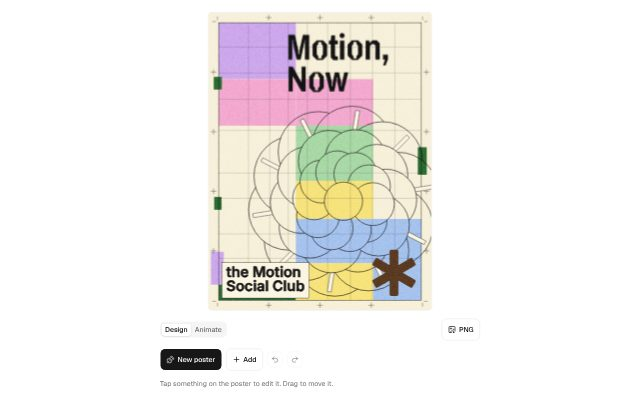
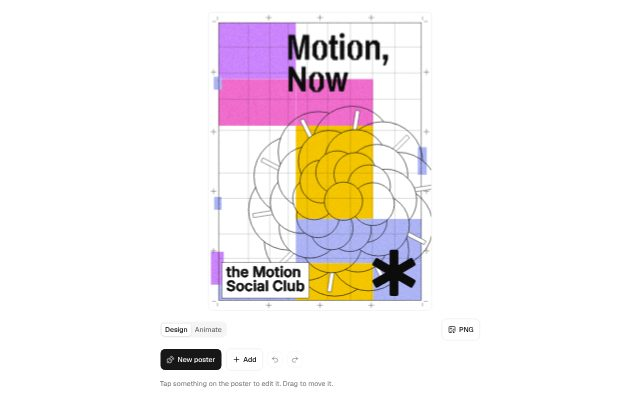
KV Posters: white canvas palettes only, Mono setting
Claude-Session: https://claude.ai/code/session_01TARX4bFFU8dum9PbtFbYFe

Changed region(s): [[0.3125, 0.03, 0.6875, 0.78]]

diff --git a/playground/app/prototypes/kv-posters/palettes.ts b/playground/app/prototypes/kv-posters/palettes.ts
@@ -6,18 +6,7 @@ export const TMSC = {
   Acid: "#E4FC24", Magenta: "#F06CCC", Blanco: "#FFFFFF", Naranja: "#EE4B2B", Lila: "#CC84FC", "Verde osc.": "#0C540C",
 } as const;
 type Name = keyof typeof TMSC;
-
-/** Background / figure pairs from the tMSC sheet (v1 then v2). */
-export const PAIRS: [Name, Name][] = [
-  ["Periwinkle", "Marrón"], ["Periwinkle", "Verde osc."], ["Amarillo", "Marrón"], ["Naranja", "Marrón"],
-  ["Verde", "Acid"], ["Verde", "Magenta"], ["Verde osc.", "Amarillo"], ["Marrón", "Amarillo"],
-  ["Marrón", "Periwinkle"], ["Lila", "Naranja"], ["Magenta", "Verde"], ["Acid", "Verde"],
-  ["Naranja", "Acid"], ["Ink", "Lila"], ["Ink", "Amarillo"],
-  ["Blanco", "Marrón"], ["Blanco", "Verde osc."], ["Blanco", "Naranja"], ["Periwinkle", "Ink"],
-  ["Periwinkle", "Naranja"], ["Amarillo", "Ink"], ["Amarillo", "Naranja"], ["Acid", "Marrón"],
-  ["Acid", "Verde osc."], ["Lila", "Verde osc."], ["Lila", "Ink"], ["Magenta", "Marrón"],
-  ["Magenta", "Ink"], ["Verde osc.", "Periwinkle"], ["Verde osc.", "Acid"], ["Marrón", "Magenta"],
-];
+export type MonoName = Exclude<Name, "Blanco">;
 
 /** WCAG relative luminance and contrast ratio. */
 export function luminance(hex: string): number {
@@ -32,12 +21,11 @@ export function contrast(a: string, b: string): number {
   return (hi + 0.05) / (lo + 0.05);
 }
 
-/** Light backgrounds only, and type that reads on them (WCAG AA, 4.5:1). */
-export const LIGHT_BG = 0.3;
+/** Type that reads on the paper (WCAG AA, 4.5:1). */
 export const TYPE_CONTRAST = 4.5;
 /** Minimum separation between a coloured block and the background, and between a block and type laid over it. */
 export const MOTIF_CONTRAST = 1.3;
-export const BLOCK_TYPE_CONTRAST = 3;
+export const BLOCK_TYPE_CONTRAST = 4.5;
 
 /** Motif slot → its natural tMSC colour; a slot whose colour is the figure, too close to the background, or too dark under the type takes a spare. */
 const SLOTS = { blue: "Periwinkle", pink: "Magenta", lilac: "Lila", mint: "Verde", orange: "Naranja", yellow: "Amarillo" } as const;
@@ -60,6 +48,45 @@ export function pairPalette(bg: Name, fg: Name): Palette {
   };
 }
 
-const usable = ([b, f]: [Name, Name]) => luminance(TMSC[b]) >= LIGHT_BG && contrast(TMSC[b], TMSC[f]) >= TYPE_CONTRAST;
+const blockColours = (p: Palette) => new Set([p.blue, p.pink, p.lilac, p.mint, p.orange, p.yellow]).size;
 
-export const PAIR_PALETTES: Record<string, Palette> = Object.fromEntries(PAIRS.filter(usable).map(([b, f]) => [`${b} / ${f}`, pairPalette(b, f)]));
+/** Figure colours that read on white (WCAG AA) and leave at least two block colours. */
+export const WHITE_FIGURES = (Object.keys(TMSC) as Name[]).filter(
+  (n) => n !== "Blanco" && contrast(TMSC[n], TMSC.Blanco) >= TYPE_CONTRAST && blockColours(pairPalette("Blanco", n)) >= 2,
+);
+
+/** White canvas, colourful blocks, one figure colour for type and lines. */
+export const PAIR_PALETTES: Record<string, Palette> = Object.fromEntries(WHITE_FIGURES.map((f) => [`Blanco / ${f}`, pairPalette("Blanco", f)]));
+
+// ---------------------------------------------------------------- mono
+
+/** How far a light Mono colour is deepened for type. */
+const MONO_INK_CONTRAST = 9;
+
+/** Colours the Mono setting offers. */
+export const MONO_COLORS = (Object.keys(TMSC) as Name[]).filter((n) => n !== "Blanco");
+
+const hex = (rgb: number[]) => `#${rgb.map((c) => Math.round(c).toString(16).padStart(2, "0")).join("").toUpperCase()}`;
+const rgbOf = (h: string) => [1, 3, 5].map((i) => parseInt(h.slice(i, i + 2), 16));
+/** Mix toward white (t > 0) or black (t < 0). */
+export function shade(h: string, t: number): string {
+  const to = t > 0 ? 255 : 0;
+  return hex(rgbOf(h).map((c) => c + (to - c) * Math.abs(t)));
+}
+
+/** One colour on white: the colour and its tints for blocks, type in a deep shade of it. */
+export function monoPalette(name: Name): Palette {
+  const c = TMSC[name];
+  const paper = TMSC.Blanco;
+  // type is the colour deepened well past the minimum, so its tints have room to read under it
+  let ink: string = c;
+  for (let t = 0.05; contrast(ink, paper) < MONO_INK_CONTRAST && t <= 1; t += 0.05) ink = shade(c, -t);
+  const ok = (x: string) => contrast(x, paper) >= MOTIF_CONTRAST && contrast(x, ink) >= BLOCK_TYPE_CONTRAST;
+  const valid = [...Array.from({ length: 9 }, (_, i) => shade(c, -0.4 + i * 0.05)), ...Array.from({ length: 17 }, (_, i) => shade(c, 0.05 + i * 0.05))]
+    .filter(ok)
+    .sort((x, y) => luminance(x) - luminance(y));
+  // three tones spread across what reads: deepest, middle, lightest
+  const tones = valid.length ? [...new Set([valid[0], valid[Math.floor(valid.length / 2)], valid[valid.length - 1]])] : [shade(c, 0.8)];
+  const at = (i: number) => tones[i % tones.length];
+  return { paper, ink, blue: at(0), pink: at(1), lilac: at(2), mint: at(3), orange: at(4), yellow: at(5), green: at(6), brown: ink, cream: paper };
+}

diff --git a/playground/app/prototypes/kv-posters/palettes.test.ts b/playground/app/prototypes/kv-posters/palettes.test.ts
@@ -1,22 +1,31 @@
 import { describe, expect, it } from "vitest";
-import { BLOCK_TYPE_CONTRAST, contrast, luminance, MOTIF_CONTRAST, PAIR_PALETTES } from "./palettes";
+import { BLOCK_TYPE_CONTRAST, contrast, MONO_COLORS, monoPalette, MOTIF_CONTRAST, PAIR_PALETTES } from "./palettes";
+import type { Palette } from "./types";
 
-const pals = Object.values(PAIR_PALETTES);
+const BLOCKS = ["blue", "pink", "lilac", "mint", "orange", "yellow", "green"] as const;
 
-describe("pair palettes", () => {
-  it("keeps only light backgrounds with readable type", () => {
-    expect(pals.length).toBeGreaterThan(8);
-    for (const p of pals) {
-      expect(luminance(p.paper)).toBeGreaterThanOrEqual(0.3);
-      expect(contrast(p.paper, p.ink)).toBeGreaterThanOrEqual(4.5);
-    }
+function readable(p: Palette) {
+  expect(p.paper).toBe("#FFFFFF");
+  expect(contrast(p.paper, p.ink)).toBeGreaterThanOrEqual(4.5);
+  for (const k of BLOCKS) {
+    expect(contrast(p[k], p.ink)).toBeGreaterThanOrEqual(BLOCK_TYPE_CONTRAST);
+    expect(contrast(p[k], p.paper)).toBeGreaterThanOrEqual(MOTIF_CONTRAST);
+  }
+}
+
+describe("white canvas palettes", () => {
+  it("are white, with readable type and blocks", () => {
+    expect(Object.keys(PAIR_PALETTES).length).toBeGreaterThanOrEqual(2);
+    Object.values(PAIR_PALETTES).forEach(readable);
   });
-  it("keeps every coloured block apart from the background and readable under the type", () => {
-    for (const p of pals) {
-      for (const k of ["blue", "pink", "lilac", "mint", "orange", "yellow", "green"] as const) {
-        expect(contrast(p[k], p.ink)).toBeGreaterThanOrEqual(BLOCK_TYPE_CONTRAST);
-        expect(contrast(p[k], p.paper)).toBeGreaterThanOrEqual(MOTIF_CONTRAST);
-      }
-    }
-  });
+});
+
+describe("mono", () => {
+  it("keeps every colour readable on white", () => MONO_COLORS.forEach((n) => readable(monoPalette(n))));
+  it("uses the colour itself for type when it is already deep", () => expect(monoPalette("Ink").ink).toBe("#0C0C0C"));
+  it("gives every colour at least two block tones", () =>
+    MONO_COLORS.forEach((n) => {
+      const p = monoPalette(n);
+      expect(new Set([p.blue, p.pink, p.lilac, p.mint]).size).toBeGreaterThanOrEqual(2);
+    }));
 });

diff --git a/playground/app/prototypes/kv-posters/data.ts b/playground/app/prototypes/kv-posters/data.ts
@@ -1,5 +1,5 @@
 import { defineControls } from "@/components/controls";
-import { PAIR_PALETTES } from "./palettes";
+import { MONO_COLORS, PAIR_PALETTES } from "./palettes";
 import type { Element, FormatId, Kind, Palette } from "./types";
 
 export const SLUG = "kv-posters";
@@ -11,18 +11,8 @@ export const FORMATS: Record<FormatId, { label: string; width: number; height: n
   "1x1": { label: "1:1", width: 1080, height: 1080 },
 };
 
-/** Sampled from the reference posters, then the tMSC background / figure pairs. */
-export const PALETTES: Record<string, Palette> = {
-  Pastel: {
-    paper: "#F7F0DA", ink: "#141313", blue: "#A6C3EE", pink: "#F3A9CF", lilac: "#CDA8EC", mint: "#A9D9A6",
-    green: "#2D6B33", orange: "#F2883B", yellow: "#F7E37C", brown: "#5B3A22", cream: "#FBF5E3",
-  },
-  "KV yellow": {
-    paper: "#F5E85A", ink: "#141313", blue: "#BFA1EF", pink: "#FB81BC", lilac: "#BFA1EF", mint: "#FB81BC",
-    green: "#064517", orange: "#FB81BC", yellow: "#FEFEFD", brown: "#3D2A14", cream: "#FEFEFD",
-  },
-  ...PAIR_PALETTES,
-};
+/** White canvas, tMSC colours; one figure colour per palette. */
+export const PALETTES: Record<string, Palette> = PAIR_PALETTES;
 
 export const TEMPLATES = ["auto", "free", "stack", "cascade", "overlap", "vertical", "line"] as const;
 
@@ -30,7 +20,8 @@ export const controls = defineControls({
   template: { type: "select", label: "Layout", options: TEMPLATES, default: "auto" },
   seed: { type: "number", label: "Seed", min: 1, max: 9999, step: 1, default: 12 },
   format: { type: "select", label: "Format", options: ["3x4", "4x5", "9x16", "1x1"], default: "3x4", randomize: false },
-  palette: { type: "select", label: "Palette", options: Object.keys(PALETTES), default: "Pastel" },
+  palette: { type: "select", label: "Palette", options: Object.keys(PALETTES), default: "Blanco / Ink" },
+  mono: { type: "select", label: "Mono", options: ["off", ...MONO_COLORS], default: "off" },
   color: { type: "select", label: "Colour", options: ["squares", "fills"], default: "squares" },
   density: { type: "number", label: "Blocks", min: 0, max: 1, step: 0.05, default: 0.55 },
   paper: { type: "boolean", label: "Paper texture", default: true },

diff --git a/playground/app/prototypes/kv-posters/poster-editor.tsx b/playground/app/prototypes/kv-posters/poster-editor.tsx
@@ -9,6 +9,7 @@ import { animate, clipsFor } from "./animate";
 import { AnimatePanel } from "./animate-panel";
 import { moved } from "./bounds";
 import { controls, PALETTES } from "./data";
+import { monoPalette, type MonoName } from "./palettes";
 import { DesignPanel } from "./design-panel";
 import { exportMP4 } from "./export-mp4";
 import { PosterCanvas } from "./poster-canvas";
@@ -24,7 +25,10 @@ export function PosterEditor({ c }: { c: Controls<typeof controls> }) {
   const v = c.values;
   const opts = { template: v.template, seed: v.seed, format: v.format as FormatId, density: v.density, paint: v.color as Paint };
   const poster = usePoster(opts);
-  const palette = PALETTES[v.palette] ?? PALETTES.Pastel;
+  const palette = useMemo(
+    () => (v.mono !== "off" ? monoPalette(v.mono as MonoName) : (PALETTES[v.palette] ?? PALETTES["Blanco / Ink"])),
+    [v.mono, v.palette],
+  );
   const [tab, setTab] = useState("design");
   const [selected, setSelected] = useState<string | null>(null);
   const fps = Number(v.fps);
